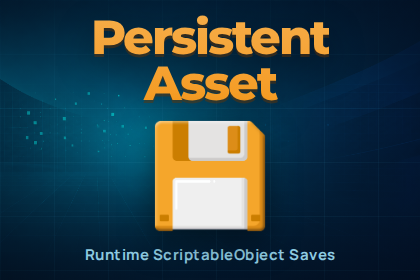
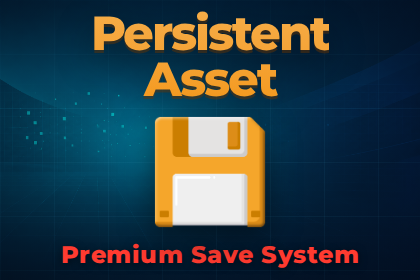
PA update desc

diff --git a/docs/_includes/custom-head.html b/docs/_includes/custom-head.html
@@ -11,7 +11,7 @@
 {
   "@context": "https://schema.org",
   "@type": "SoftwareApplication",
-  "name": {{ page.title | jsonify }},
+  "name": {{ page.software.name | default: page.title | jsonify }},
   "description": {{ page.software.description | jsonify }},
   "applicationCategory": "DeveloperApplication",
   "operatingSystem": "Unity 6.0 or later",

diff --git a/docs/persistent-asset.md b/docs/persistent-asset.md
@@ -4,70 +4,59 @@ title: Persistent Asset
 permalink: /persistent-asset/
 image: /assets/images/persistent-asset.png
 software:
-  description: "A ScriptableObject-based save system for Unity: the asset you read at runtime is the one that saves and loads itself. Automatic, no-code-friendly, cloud-ready, and extensible."
+  name: "Persistent Asset - Premium Save System"
+  description: "A complete save system for Unity: automatic saving, save slots, cloud sync, AES-256 encryption, save versioning and crash-safe writes, with no save code to write."
   price: "49.99"
-  store_url: https://assetstore.unity.com/packages/tools/utilities/persistent-asset-runtime-scriptableobject-saves-389310
+  store_url: https://assetstore.unity.com/packages/slug/389310
 ---
 
 <img src="/assets/images/persistent-asset.png" alt="Persistent Asset" class="package-image" width="1950" height="1300" decoding="async">
 
-Most save systems mean data classes to maintain, save files to keep in sync, and serialization to wire up by hand. Persistent Asset removes all of it: the ScriptableObject you already read and write at runtime is the one that saves and loads itself.  
-No save code, no boilerplate, no rewrites as your project grows.  
-It is automatic and no-code-friendly to start, and becomes cloud-ready and extensible as you scale.
+**A complete save system for Unity. Declare your data once, and it saves itself.**
 
-New to ScriptableObjects? [Start here](https://justetools.net/persistent-asset/user-manual/pages/What%20is%20a%20ScriptableObject.html).
+Write your game data in code, or author it in the inspector with no scripting at all. Either way it persists between sessions, loaded on launch and saved at safe points, with no save files to manage and no serialization to wire up. Save, load and clear stay available whenever you want the control, from a call in your code or straight from a button.
 
-## It grows with your project
+## It evolves with your game
 
-- **Prototyping:** inherit `PersistentScriptableObject` and you're done; it saves to disk on its own, with no configuration.
-- **Designers:** no coding needed. Author variables, bind them to UI, and save settings from the Inspector, with live tools to watch it work while you play.
-- **Mid-size projects:** you won't outgrow it. Real save files, slots, and cloud sync layer onto the same objects, a dropdown away or a one-line change, never a rewrite.
-- **Large projects:** extension points throughout. Swap the storage, serializer, or save format; add your own data types and save policies; and hook into events and interfaces.
-- **Live games:** ship updates without breaking existing player saves; built-in versioning upgrades old saves to your new format the moment they load.
+- **Prototype**: saving and loading are automatic, nothing to set up or configure, it just works.
+- **Ship**: save slots, screenshot thumbnails, rolling autosaves, cloud sync and encryption, without changing what you already built.
+- **Live**: old saves upgrade to your new format on load, so an update never invalidates a player's progress.
 
-## Built to be trusted
+## It adapts to you
 
-A save system that loses progress is worthless, so reliability is the core design goal.
+- **Entirely from the inspector**: author saved values, wire them to the UI and react to them, with no scripting.
+- **Or from code**: call save, load and clear in whatever style your code uses, on one object or on all of them at once.
+- **Save anywhere**: local files, Player Prefs, memory, your own HTTP server or Unity Cloud Save, switched from a dropdown, with offline saves pushed once the connection returns.
+- **Serializes the way you already do**: Unity JSON out of the box, plus Newtonsoft and Odin when either is in your project, for dictionaries, interfaces, polymorphism and object graphs. References to your own assets save with any of them.
+- **Extend everything**: every built-in piece can be replaced by your own.
 
-- **Atomic file writes with an automatic backup copy**: a crash or power loss leaves the last good save intact, never a corrupt one.
-- **Player progress is never wiped by accident**: an existing save can never be replaced with a blank or freshly reset one.
-- **1,700+ automated tests**: an extensive EditMode and PlayMode suite covers operations, serialization, slots, and security end to end.
+## It does what others do not
 
-## What's Included
+- **Waits for saves on quit**: a shutdown drain holds the exit until in-flight saves land.
+- **Locks saves down**: AES-256 encryption, tamper detection, and locks tying a save to a machine, a file path or a secret only your server knows.
+- **Refuses to wipe progress**: an existing save is never overwritten with default values, and a failed load holds saving until a retry recovers the data.
+- **Protects shipped saves**: lock your save configuration once players have it, and any change that would orphan their saves offers to migrate them instead.
+- **Simulates disaster**: force slow, failed or cancelled operations and check your game handles them.
+- **Keeps your data visible**: it lives in a ScriptableObject asset, so you can read and edit it in the inspector, even while the game runs.
+- **Shows its work live**: every load and save, with its result, in the inspector or in an overlay on the device.
 
-*Save anything, your way*
+## It is built to professional standards
 
-- **Save and load automatically**: objects load on launch, save at safe points and on a timer, and retry failed loads, with no save code; switch any of it off when you want manual control.
-- **Call the save API however you code**: fire-and-forget, callback, synchronous, `async`/`await`, or coroutine, on one object or all at once.
-- **Reach for more when you need it**: save slots with metadata, global events, typed results, and opt-in advanced interfaces.
-- **Move saves anywhere without a rewrite**: swap storage from a dropdown: Local File, Player Prefs, Session, self-hosted HTTP server, or Unity Cloud Save; once loaded, the online backends keep working through connection drops and sync in the background when the connection returns.
-- **Save what Unity's serialization cannot**: pick the serializer from a dropdown, Unity JSON, Newtonsoft JSON or Odin, and dictionaries, properties, interfaces and shared object graphs save too.
-- **Point at your project assets**: a field holding a ScriptableObject or a prefab (the equipped weapon, the unlocked levels) saves and resolves back on load, with nothing to wire.
-- **Let designers ship without code**: persistent variables in 40+ built-in types and any project asset, observable values, and UI binder components, plus optional Input System and Localization bindings.
+- **Cannot corrupt a save**: atomic writes and an automatic backup copy survive a crash or a power loss.
+- **Saves without a hitch**: heavy work happens in the background, and saves can be skipped entirely when nothing changed.
+- **Fits a studio workflow**: play sessions never dirty your assets, the whole save configuration lives in one committed file, and a broken or test-only setup fails the build instead of reaching players.
+- **Tested end to end**: 1,700+ automated tests, every release verified on Unity 6.0 through 6.6, and the full C# source in your project.
+- **Documented in depth**: a full user manual and a searchable API reference, in the package and online.
 
-*Protect player progress*
+## Support
 
-- **Save when the player leaves**: autosave when a mobile app loses focus or is paused; on quit, your game waits for in-flight saves to finish.
-- **Keep saves safe from cheaters**: AES-256 encryption, tamper-detection, and device locks.
-- **Never strand a shipped save**: lock your save setup once it ships, and any change that would orphan existing saves prompts you to migrate them instead of silently wiping them.
-- **Upgrade saves across updates**: old saves migrate to your new format on load, so an update never invalidates existing progress.
-- **Reset and roll back**: reset your data to defaults, or snapshot and restore it in memory.
-
-*Built for production*
-
-- **Ship on desktop, mobile, and WebGL**: Mono and IL2CPP/AOT ready, with WebGL writes flushed to the browser's IndexedDB; consoles are supported through a small custom backend.
-- **Save with no frame stutter**: off-thread background saving, gzip compression, and optional dirty-checking that skips no-op saves.
-- **Debug and stress-test your save handling**: live status and logs in the inspector or an on-device overlay, a one-click local-save wipe, and an integration-test mode that forces slow or failed operations so you can prove your game survives them.
-- **Keep version control clean**: runtime play never dirties your authored assets, and your project settings live in one committed file so the whole team builds with the same configuration, encryption key included.
-
-*Yours to own*
-
-- **Own and edit everything**: full C# source, no mandatory dependencies, and human-readable JSON saves when unencrypted.
-- **Get handy extras**: save-screenshot capture for slot thumbnails, a persistent-singleton helper, and a playable demo game.
+Questions, issues or feature requests? Email [justetools@gmail.com](mailto:justetools@gmail.com).
 
 ## Requirements
 
 Unity 6.0 or later (tested up to 6.6)
+
+Desktop, mobile and WebGL are supported out of the box. Consoles gate saving behind their platform SDK, so there you write a short script calling it and the save system uses it like any other storage.
 
 ## Learn More
 
@@ -77,7 +66,7 @@ Unity 6.0 or later (tested up to 6.6)
 
 ## Get It
 
-<a href="https://assetstore.unity.com/packages/tools/utilities/persistent-asset-runtime-scriptableobject-saves-389310" class="asset-store-btn">View on Unity Asset Store ($49.99)</a>
+<a href="https://assetstore.unity.com/packages/slug/389310" class="asset-store-btn">View on Unity Asset Store ($49.99)</a>
 <a href="https://justetools.itch.io/persistent-asset" class="asset-store-btn" target="_blank" rel="noopener">Play Demo</a>
 
 ## Patch Notes

diff --git a/docs/persistent-asset/comparison.md b/docs/persistent-asset/comparison.md
@@ -57,25 +57,25 @@ See how [Persistent Asset](/persistent-asset/) holds up against the other save s
 }
 </style>
 
-**Legend:** ✅ yes · ⚠ partly / manual or unclear · ➖ deliberately not · ❌ no · ⏳ coming
+**Legend:** ✅ yes · ⚠ partly / manual or unclear · ➖ deliberately not · ❌ no · ⏳ coming soon
 
 |  | Persistent Asset | Easy Save 3 | Bayat Save System |
 |---|---|---|---|
 | **Setup & workflow** | | | |
 | Saves & loads automatically, no code | ✅ Runs on its own | ⚠ Auto Save component | ⚠ Auto Save component |
 | Set up entirely in the Inspector | ✅ No C# needed | ⚠ Mostly code | ⚠ Mostly code |
-| Drop Save / Load onto a button | ✅ Ready for UnityEvents | ⚠ Small script | ❌ Needs scripting |
+| Drop Save / Load onto a button | ✅ Ready for UnityEvents | ⚠ Small script | ⚠ Small script |
 | Save or wipe everything in one call | ✅ One call, every object | ⚠ Auto Save / DeleteFile | ⚠ Auto Save Manager |
-| Change where saves go without rewriting code | ✅ Dropdown on the asset | ⚠ Default in Settings window | ❌ Set in code |
+| Change where saves go without rewriting code | ✅ Dropdown on the asset | ⚠ Default in Settings window | ⚠ Set in code |
 | **Where it saves** | | | |
 | Local files & PlayerPrefs | ✅ Built in | ✅ Built in | ✅ Built in |
 | Multiple save slots | ✅ Built in | ✅ Multiple files | ✅ Catalog API |
 | Screenshot thumbnails for save slots | ✅ Built-in per-slot capture | ⚠ Save a Texture2D yourself | ⚠ Save images yourself |
 | Cloud saves across devices, built-in | ✅ Unity Cloud Save | ✅ ES3Cloud (self-host) | ⚠ Firebase / PlayFab add-ons |
-| Keeps working offline, syncs later | ✅ Auto-uploads later | ⚠ Saves locally, manual ES3Cloud.Sync | ⚠ Manual |
+| Keeps working offline, syncs later | ✅ Offline cache, auto-upload | ⚠ Saves locally, manual ES3Cloud.Sync | ⚠ Manual |
 | Database storage (SQL / NoSQL) | ➖ By design: your backend | ✅ MySQL (SQL) via ES3Cloud | ⚠ Firebase add-on (NoSQL) |
 | PC, mobile & WebGL | ✅ Fully supported | ✅ Fully supported | ✅ Fully supported |
-| Consoles | ⚠ Custom code, integrated | ❌ Fully custom, no integration | ❌ Fully custom, no integration |
+| Consoles | ⚠ Short script, then automatic | ⚠ Write your own file handling | ⚠ Write your own provider |
 | **Reliability & data safety** | | | |
 | Saves can't corrupt on crash or power loss | ✅ Atomic write-then-swap | ⚠ Atomic move, manual recovery | ⚠ Backup-based |
 | Automatic backup copy | ✅ Automatic fallback | ⚠ Manual backup/restore | ⚠ Manual backup API |
@@ -93,7 +93,7 @@ See how [Persistent Asset](/persistent-asset/) holds up against the other save s
 | Compress saves to shrink file size | ✅ gzip (Fast or Optimal) | ✅ gzip | ❌ Not built in |
 | Skips saving when nothing changed | ✅ Optional dirty-check | ⚠ Manual / cache | ⚠ Manual |
 | **What you can save** | | | |
-| Deep object graphs & polymorphism out of the box | ✅ Newtonsoft or Odin serializer | ✅ Reflection serializer | ✅ Json.NET-based |
+| Deep object graphs & polymorphism | ✅ Newtonsoft or Odin serializer | ✅ Reflection serializer | ✅ Json.NET-based |
 | Save any object from anywhere in code | ➖ By design: one clear asset | ✅ Save anything, anywhere | ✅ Save anything, anywhere |
 | Reach saved data anywhere, no string keys | ✅ Type-safe `Find<T>()` | ⚠ Via string keys | ⚠ Via string keys |
 | Save entire scenes & GameObjects | ➖ By design: we save data | ✅ Snapshots scene objects | ✅ Unity objects & components |
@@ -117,8 +117,8 @@ See how [Persistent Asset](/persistent-asset/) holds up against the other save s
 | Teach it your own custom data types | ✅ Custom codecs | ✅ Custom ES3 types | ✅ Custom converters |
 | React to saves & loads with events / hooks | ✅ Global events | ⚠ Limited | ✅ Auto Save events |
 | Add advanced behaviour with one small interface | ✅ Opt-in interfaces | ❌ No equivalent | ⚠ Extensible APIs |
-| Alternative serializers (Newtonsoft / Odin) | ✅ Both built in | ⚠ Community | ❌ Json.NET only |
-| Third-party integrations (Steam, PlayFab, Firebase…) | ⏳ Planned | ⚠ Some / community | ✅ Firebase, PlayFab |
+| Alternative serializers (Newtonsoft / Odin) | ✅ Both integrated, no setup | ⚠ Community | ❌ Json.NET only |
+| Third-party integrations (Steam, PlayFab, Firebase…) | ⏳ Coming soon | ⚠ Some / community | ✅ Firebase, PlayFab |
 | Visual scripting (PlayMaker) | ❌ Under consideration | ✅ PlayMaker actions | ⚠ PlayMaker add-on; Bolt legacy |
 | Spreadsheet / CSV export | ❌ Not our focus | ✅ Built in | ❌ Not offered |
 | **Compatibility & ownership** | | | |
